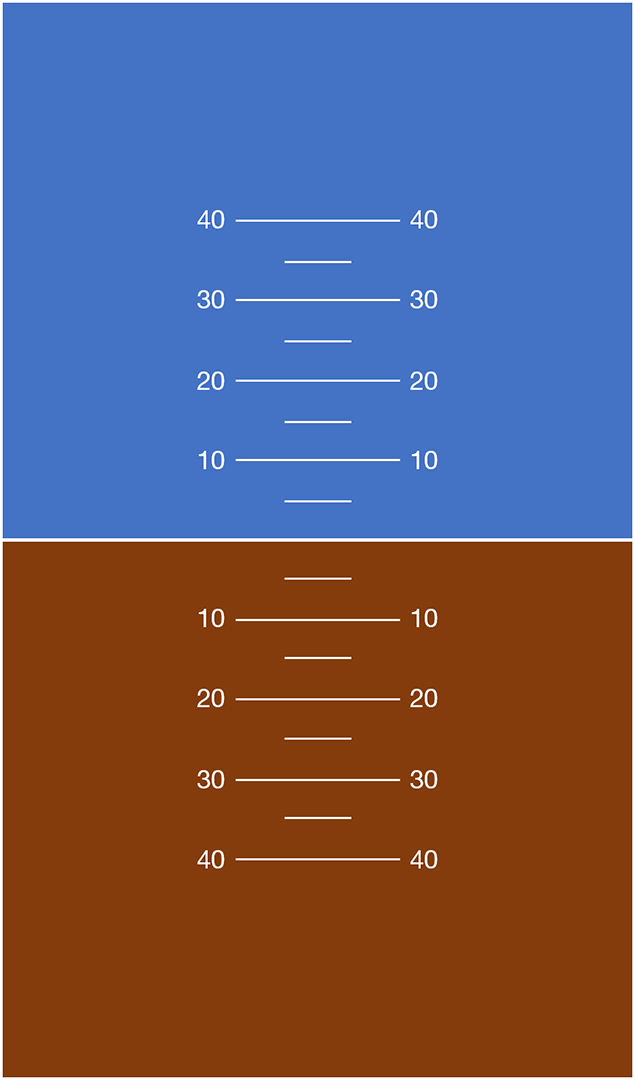
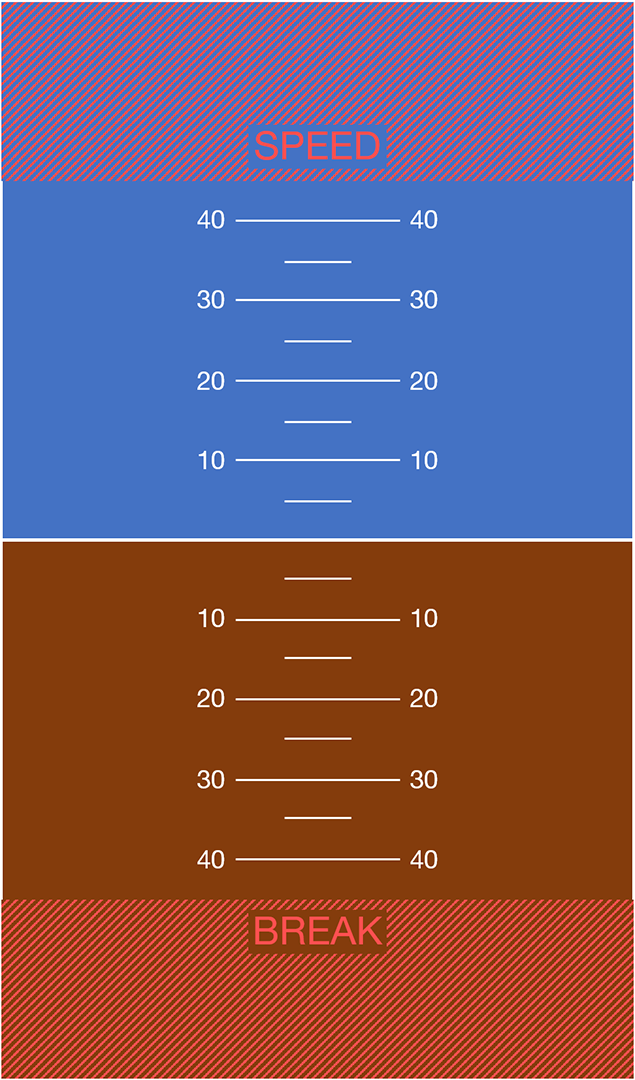
Update story board, implement remaining distance

Changed region(s): [[0.0, 0.825, 1.0, 1.0], [0.0, 0.0, 1.0, 0.1833]]

diff --git a/dashboard.js b/dashboard.js
@@ -36,7 +36,7 @@ Funbit.Ets.Telemetry.Dashboard.prototype.filter = function (data, utils) {
     // This filter is used to change telemetry data 
     // before it is displayed on the dashboard.
     // You may convert km/h to mph, kilograms to tons, etc.
-
+    data.distanceInteger = undefined;
     data.clock = undefined;
     data.hasJob = data.trailer.attached;
     // round truck speed
@@ -67,20 +67,26 @@ Funbit.Ets.Telemetry.Dashboard.prototype.filter = function (data, utils) {
     data.truck.wearSum = Math.round(wearSumPercent) + '%';
     data.trailer.wear = Math.round(data.trailer.wear * 100) + '%';
     // return changed data to the core for rendering
-    let remainingDate = new Date(data.job.remainingTime)
+
+    // Own data
+    const remainingDate = new Date(data.job.remainingTime)
     data.job.remainingTime =
         utils.formatInteger(remainingDate.getDate(), 2) + " d " +
         utils.formatInteger(remainingDate.getHours(), 2) + ":" +
         utils.formatInteger(remainingDate.getMinutes(), 2) + "";
-    let now = new Date();
+    const now = new Date();
     data.clock = utils.formatInteger(now.getHours(), 2) + ":" + utils.formatInteger(now.getMinutes(), 2);
+    const remainDist = data.navigation.estimatedDistance;
+    const distInt = Math.floor(remainDist / 1000);
+    data.distanceInteger = distInt;
+    data.distanceDecimal = Math.floor((remainDist - distInt * 1000) / 100);
     return data;
 };
 // @ts-ignore
 Funbit.Ets.Telemetry.Dashboard.prototype.render = function (data, utils) {
-    let asi = document.getElementById("attitude-indicator");
-    asi.style.rotate = (data.truck.placement.roll*360).toString();
-    let pitch = 50 - data.truck.placement.pitch * 360 / 30 * 49;
+    const asi = document.getElementById("attitude-indicator");
+    asi.style.rotate = (data.truck.placement.roll * 360).toString();
+    const pitch = 50 - data.truck.placement.pitch * 360 / 30 * 49;
     asi.style.backgroundPosition = "50% " + Math.round(pitch) + "%";
     //console.log("P:" + data.truck.placement.pitch*360 + ", B:" + data.truck.placement.roll*360);
 }

diff --git a/dashboard.html b/dashboard.html
@@ -17,10 +17,10 @@
             <span class="truck-model"></span>
         </div>
         <div class="mission-distance">
-            <span class="distance-integer">0</span>
+            <span class="distanceInteger">0</span>
             <div class="distance-subtext">
                 <span class="dot" >.</span>
-                <span class="distance-decimal">0</span>
+                <span class="distanceDecimal">0</span>
                 <span class="km">&nbsp;km</span>
             </div>
         </div>

diff --git a/dashboard.css b/dashboard.css
@@ -100,7 +100,7 @@ body {
 
   .attitude-indicator-container {
     position: absolute;
-    left: 67px;
+    left: 779px;
     top: 140px;
     width: 365px;
     height: 388px;
